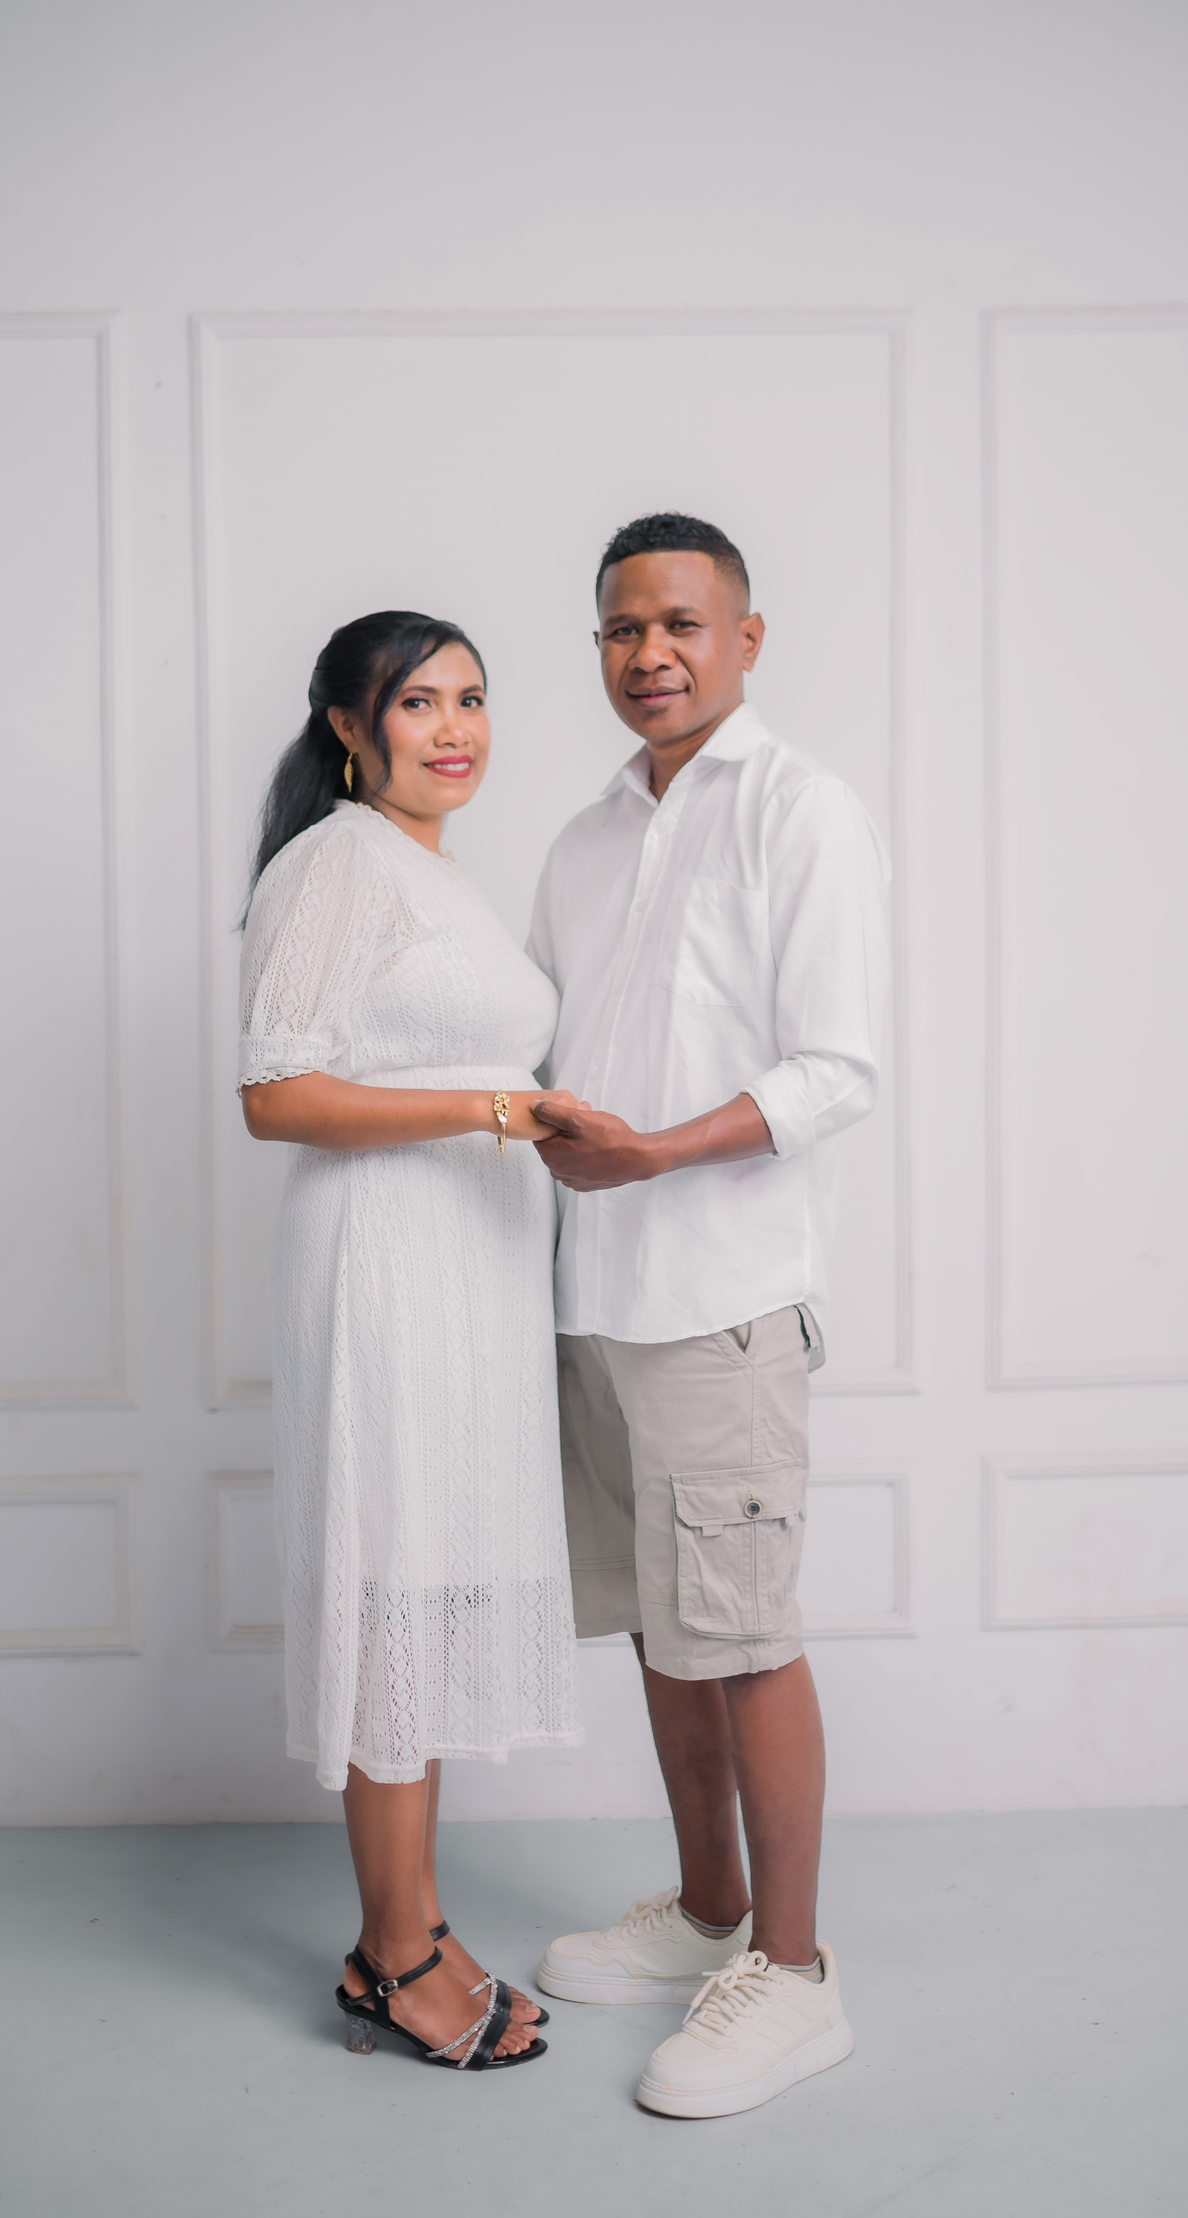
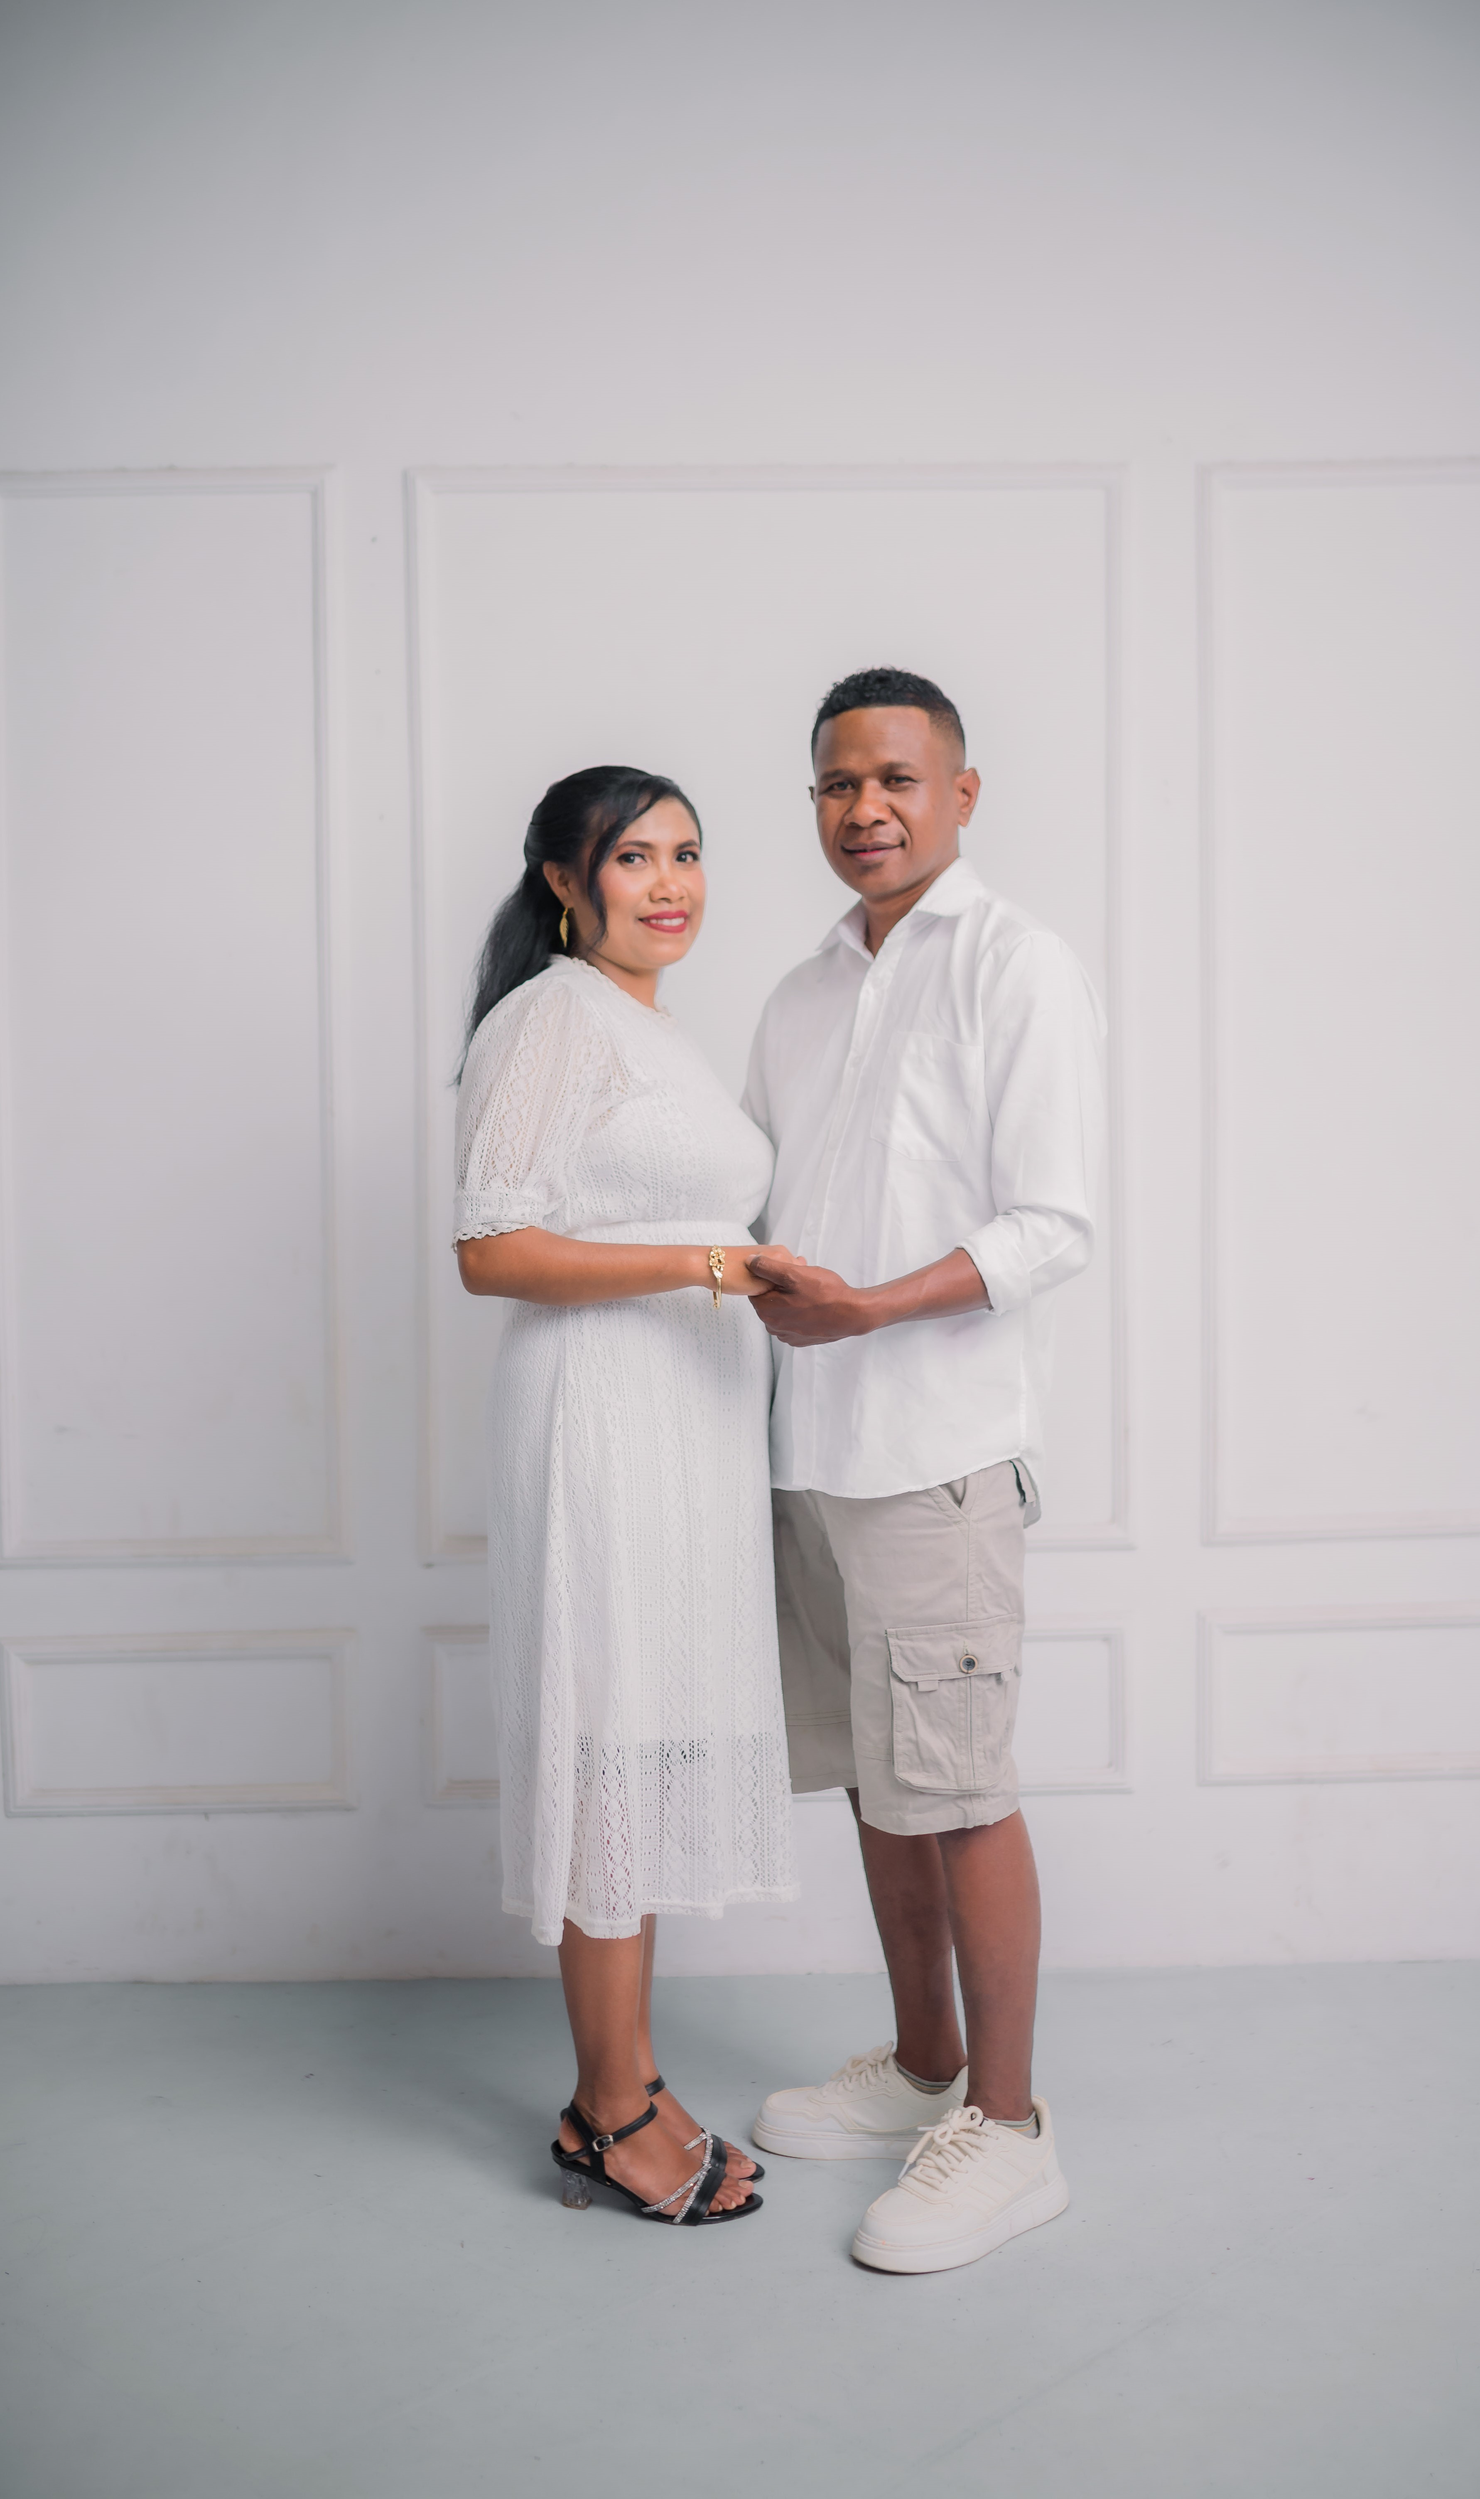
add admin

diff --git a/index.html b/index.html
@@ -43,6 +43,7 @@
     <link rel="stylesheet" href="assets/css/countdown.css">
     <link rel="stylesheet" href="assets/css/music.css">
     <link rel="stylesheet" href="assets/css/loader.css">
+    <link rel="stylesheet" href="assets/css/linniel_rsvp.css">
     <link rel="stylesheet" href="assets/css/copyright.css">
     <link rel="stylesheet" href="assets/css/linniel_2.css">
     <link rel="stylesheet" href="assets/css/linniel_3.css">
@@ -302,6 +303,7 @@
 
 </section>
 
+
 <section id="linniel_5">
     <div class="container">
         <div class="row">
@@ -560,6 +562,7 @@
     <script src="assets/js/lighbox.js"></script>
     <script src="assets/js/loader.js"></script>
     <script src="assets/js/calender.js"></script>
+    <script src="assets/js/rsvp.js"></script>
 
 
 

diff --git a/assets/css/countdown.css b/assets/css/countdown.css
@@ -60,9 +60,9 @@
 }
 
 .btn-calendar {
-    border: 1px solid #E8B4B8;
+    border: 2px solid #faf6f6;
     background: transparent;
-    color: #E8B4B8;
+    color: #f7f4f5;
     padding: 10px 20px;
     border-radius: 30px;
     font-family: 'Poppins', sans-serif;
@@ -72,8 +72,8 @@
 }
 
 .btn-calendar:hover {
-    background: #E8B4B8;
-    color: #fff;
+    background: #f5f3f3;
+    color: #020202;
     transform: translateY(-2px);
 }
 

diff --git a/admin/script.js b/admin/script.js
@@ -16,7 +16,7 @@ function buatLink(){
 
             let urlNama = encodeURIComponent(nama);
 
-            let link = "https://linniel.github.io/ugenledywedding.github.io/?to=" + urlNama;
+            let link = "https://linniel.github.io/herinitawedding.github.io/?to=" + urlNama;
 
             let pesan =
 `Assalamu’alaikum Warahmatullahi Wabarakatuh

diff --git a/assets/js/background.js b/assets/js/background.js
@@ -4,7 +4,7 @@
 
 const backgroundImages = [
 
-    "assets/bg/bg_1.jpg",
+    "assets/bg/cover.jpg",
     "assets/bg/bg_2.jpg",
     "assets/bg/bg_3.jpg",
     "assets/bg/bg_4.jpg",

diff --git a/assets/css/linniel_7.css b/assets/css/linniel_7.css
@@ -23,7 +23,7 @@
 .bahagia{
 
     filter:
-        drop-shadow(2px  4px 4px #000000);
+        drop-shadow(4px  4px 4px #f7f5f5);
     width: 320px;
 
 }
